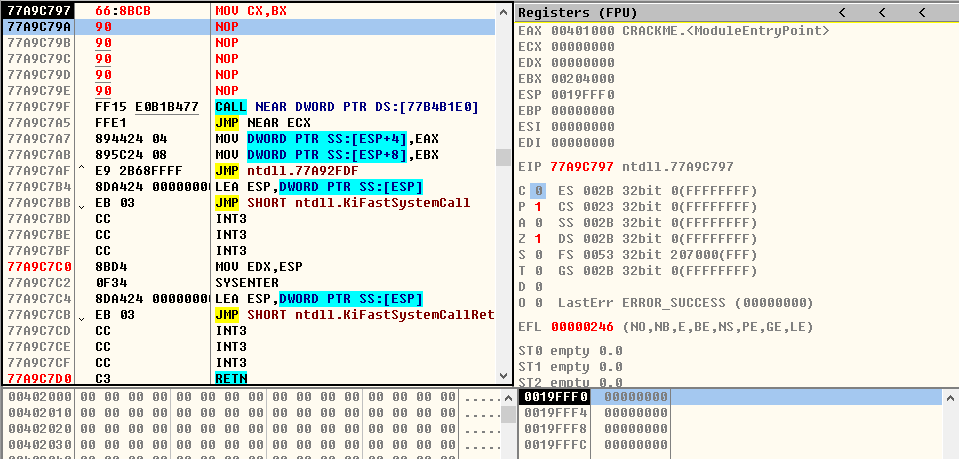
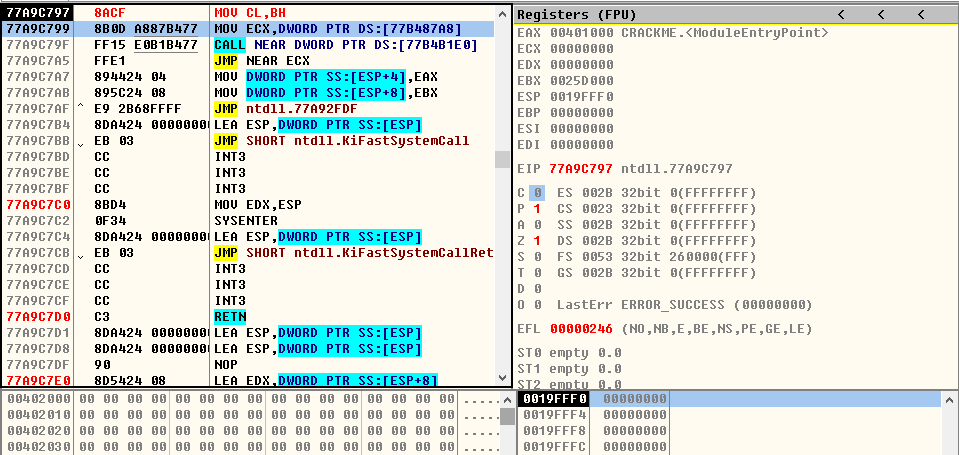
update

Changed region(s): [[0.0, 0.0, 1.0, 1.0]]

diff --git a/通用寄存器/README.md b/通用寄存器/README.md
@@ -44,9 +44,31 @@
 *  4、源操作数和目标操作数不能同时为内存单元.
 
 > 1、MOV r/m8,r8
-- **MOV CX,BX**
+- **MOV CL,BH**
 * ***运行前***
 <div align="center"> <img src="../images//mov_r8_r8_begin.png" width=""/> </div><br>
 
 * ***运行后***
 <div align="center"> <img src="../images//mov_r8_r8_end.png" width=""/> </div><br>
+
+- **MOV BYTE PTR DS:[0x19FFF0],AH
+* ***运行前***
+<div align="center"> <img src="../images//mov_m8_r8_begin.png" width=""/> </div><br>
+
+* ***运行后***
+<div align="center"> <img src="../images//mov_m8_r8_end.png" width=""/> </div><br>
+
+> 2、MOV r/m16,r16
+- **MOV CX,BX**
+* ***运行前***
+<div align="center"> <img src="../images//mov_r16_r16_begin.png" width=""/> </div><br>
+
+* ***运行后***
+<div align="center"> <img src="../images//mov_r16_r16_end.png" width=""/> </div><br>
+
+- **MOV WORD PTR DS:[0x19FFF0],BX
+* ***运行前***
+<div align="center"> <img src="../images//mov_m16_r16_begin.png" width=""/> </div><br>
+
+* ***运行后***
+<div align="center"> <img src="../images//mov_m16_r16_end.png" width=""/> </div><br>
